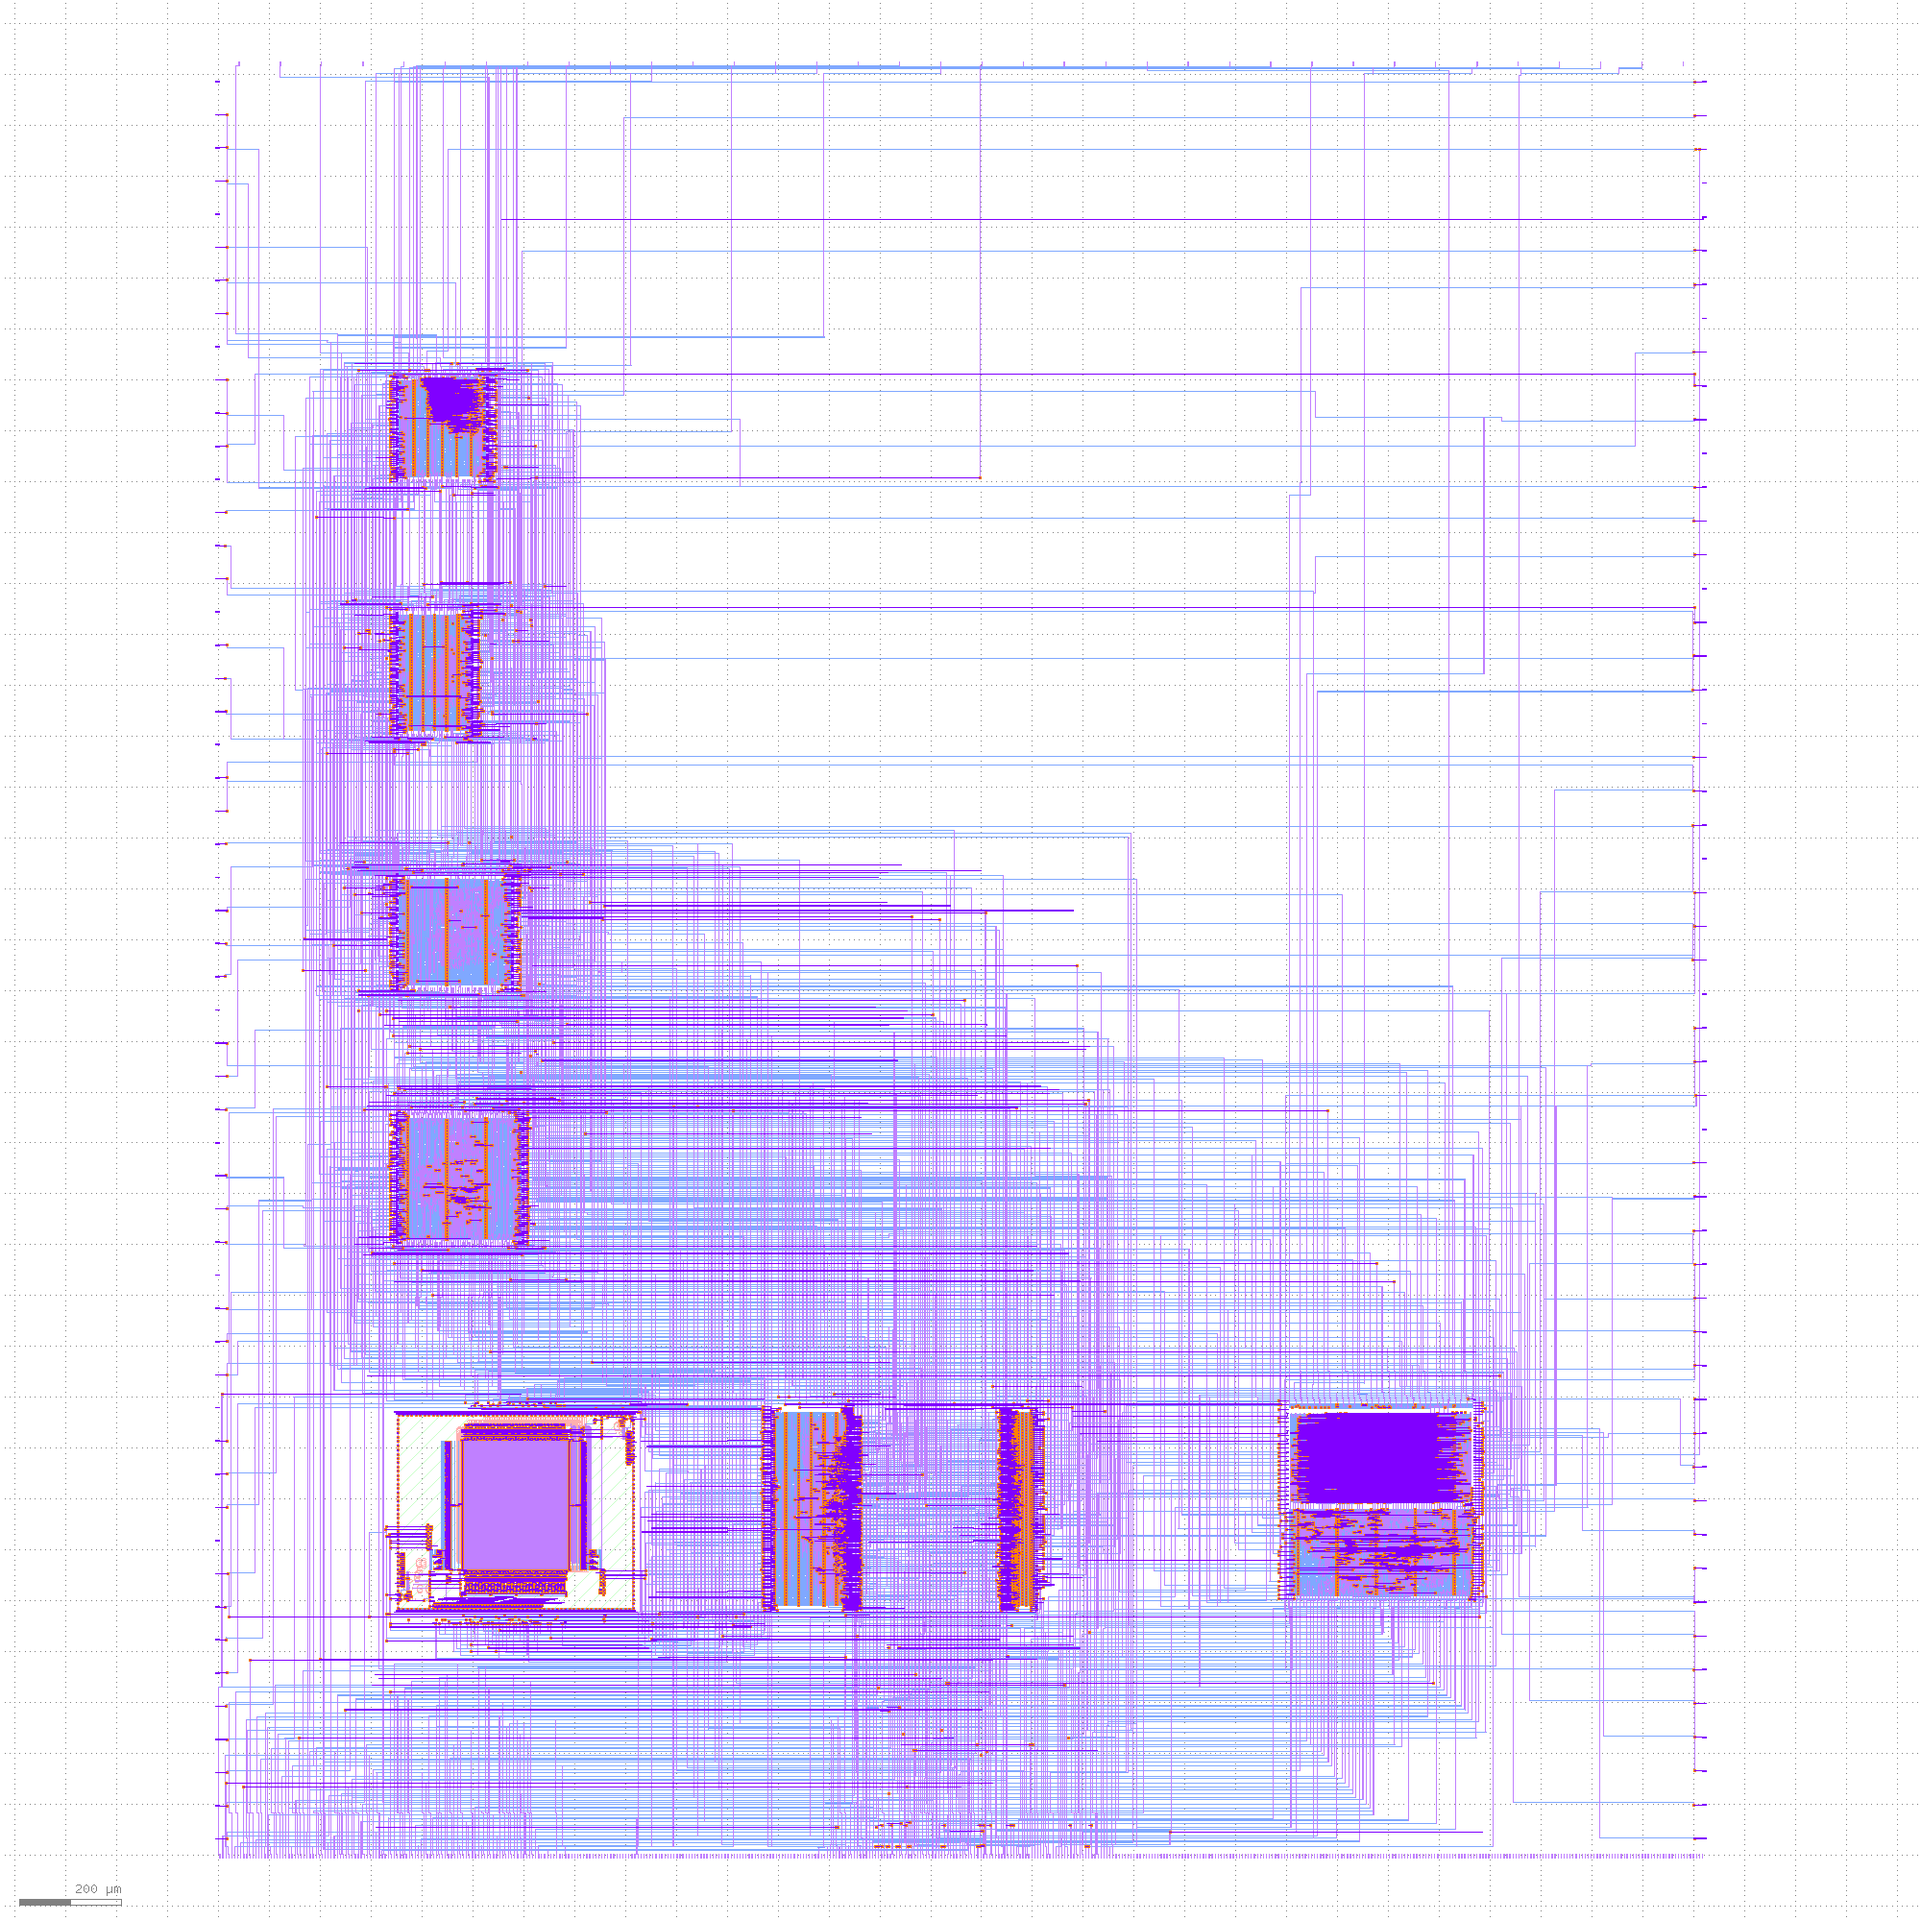
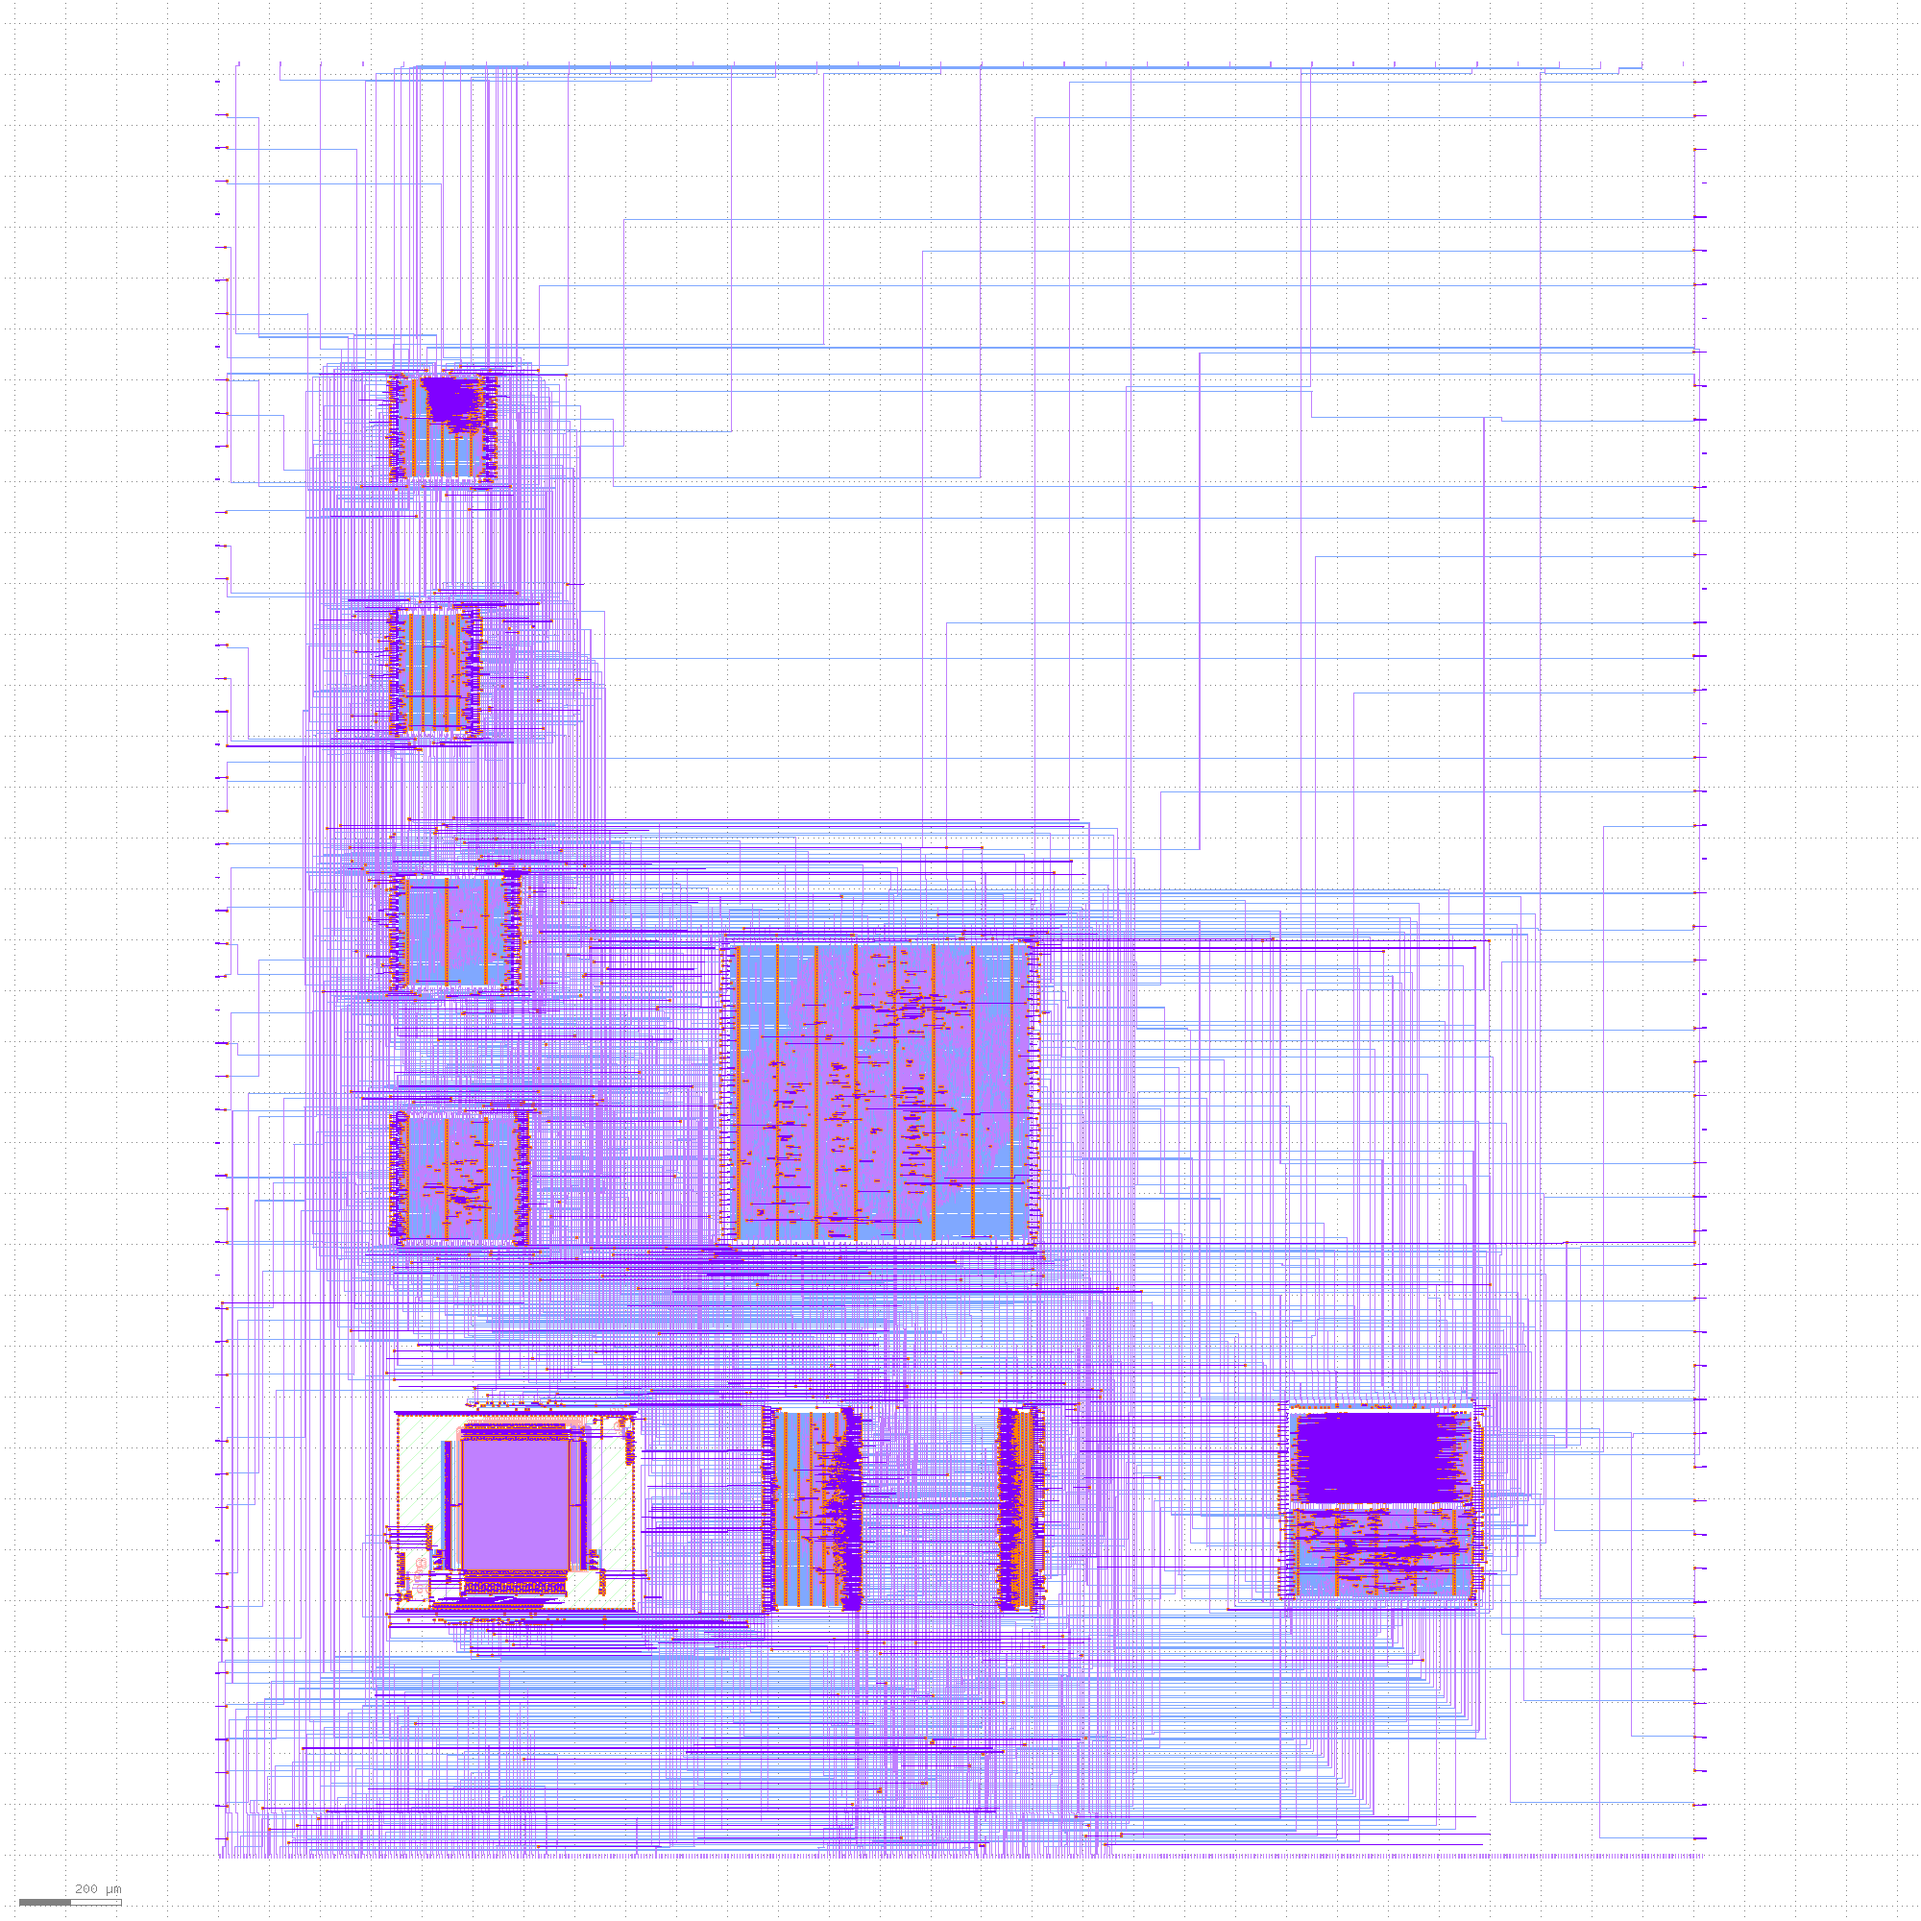
update readme and pics

Changed region(s): [[0.093, 0.155, 0.868, 0.961]]

diff --git a/README.md b/README.md
@@ -66,3 +66,12 @@ This submission was configured and built by the [multi project tools](https://gi
 
 ![Hack soc](pics/project.jpg)
 
+## teras
+
+* Author: Louis Ledoux AKA Binaryman
+* Github: https://github.com/Bynaryman/wrapped_teras
+* commit: 766588bd8519682347ea15680258cd97004fc377
+* Description: matrix multiply unit with exact accumulators, no intermediate roundings, fused-dot-products, and posit arithmetic
+
+![teras](pics/teras_4x3.png)
+
